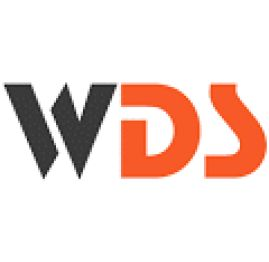
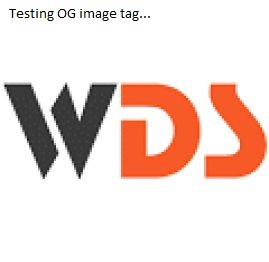
Debugging OG image tag: Leaving the OG image tag only but using an image from my website.

Changed region(s): [[0.0297, 0.0305, 0.5651, 0.0916]]

diff --git a/index.html b/index.html
@@ -10,7 +10,7 @@
 		<link href='http://fonts.googleapis.com/css?family=Open+Sans:300italic,400italic,600italic,700italic,800italic,400,300,600,700,800' rel='stylesheet' type='text/css'>
 		<link href='css/homepage.css' rel='stylesheet'>
 		<link href='css/sticky-footer.css' rel='stylesheet'>
-		<meta property='og:image' itemprop='image' content='http://webdevelopmentscripts.com/img/wds.jpg'>
+		<meta property='og:image' itemprop='image' content='http://finetunelc.com.ar/images/wds.jpg'>
 	</head>
 
 	<body>
